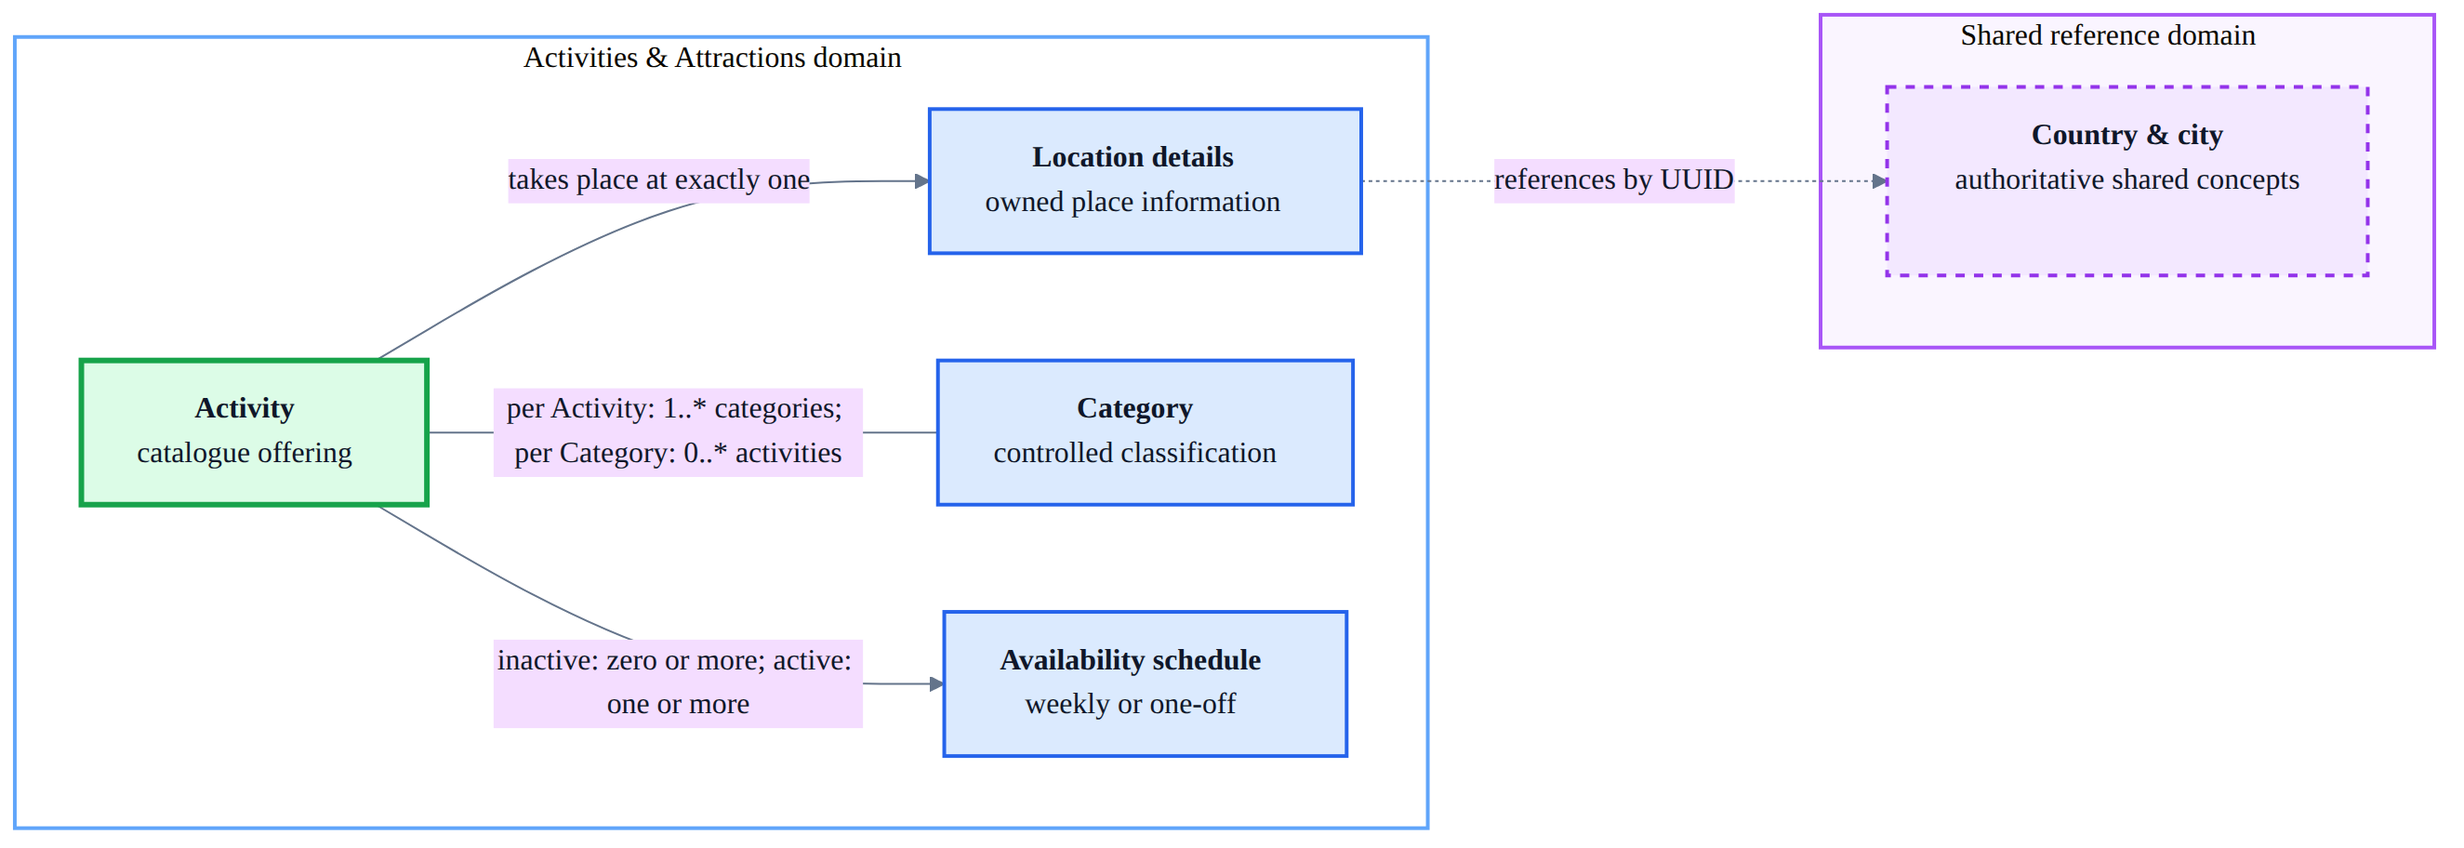
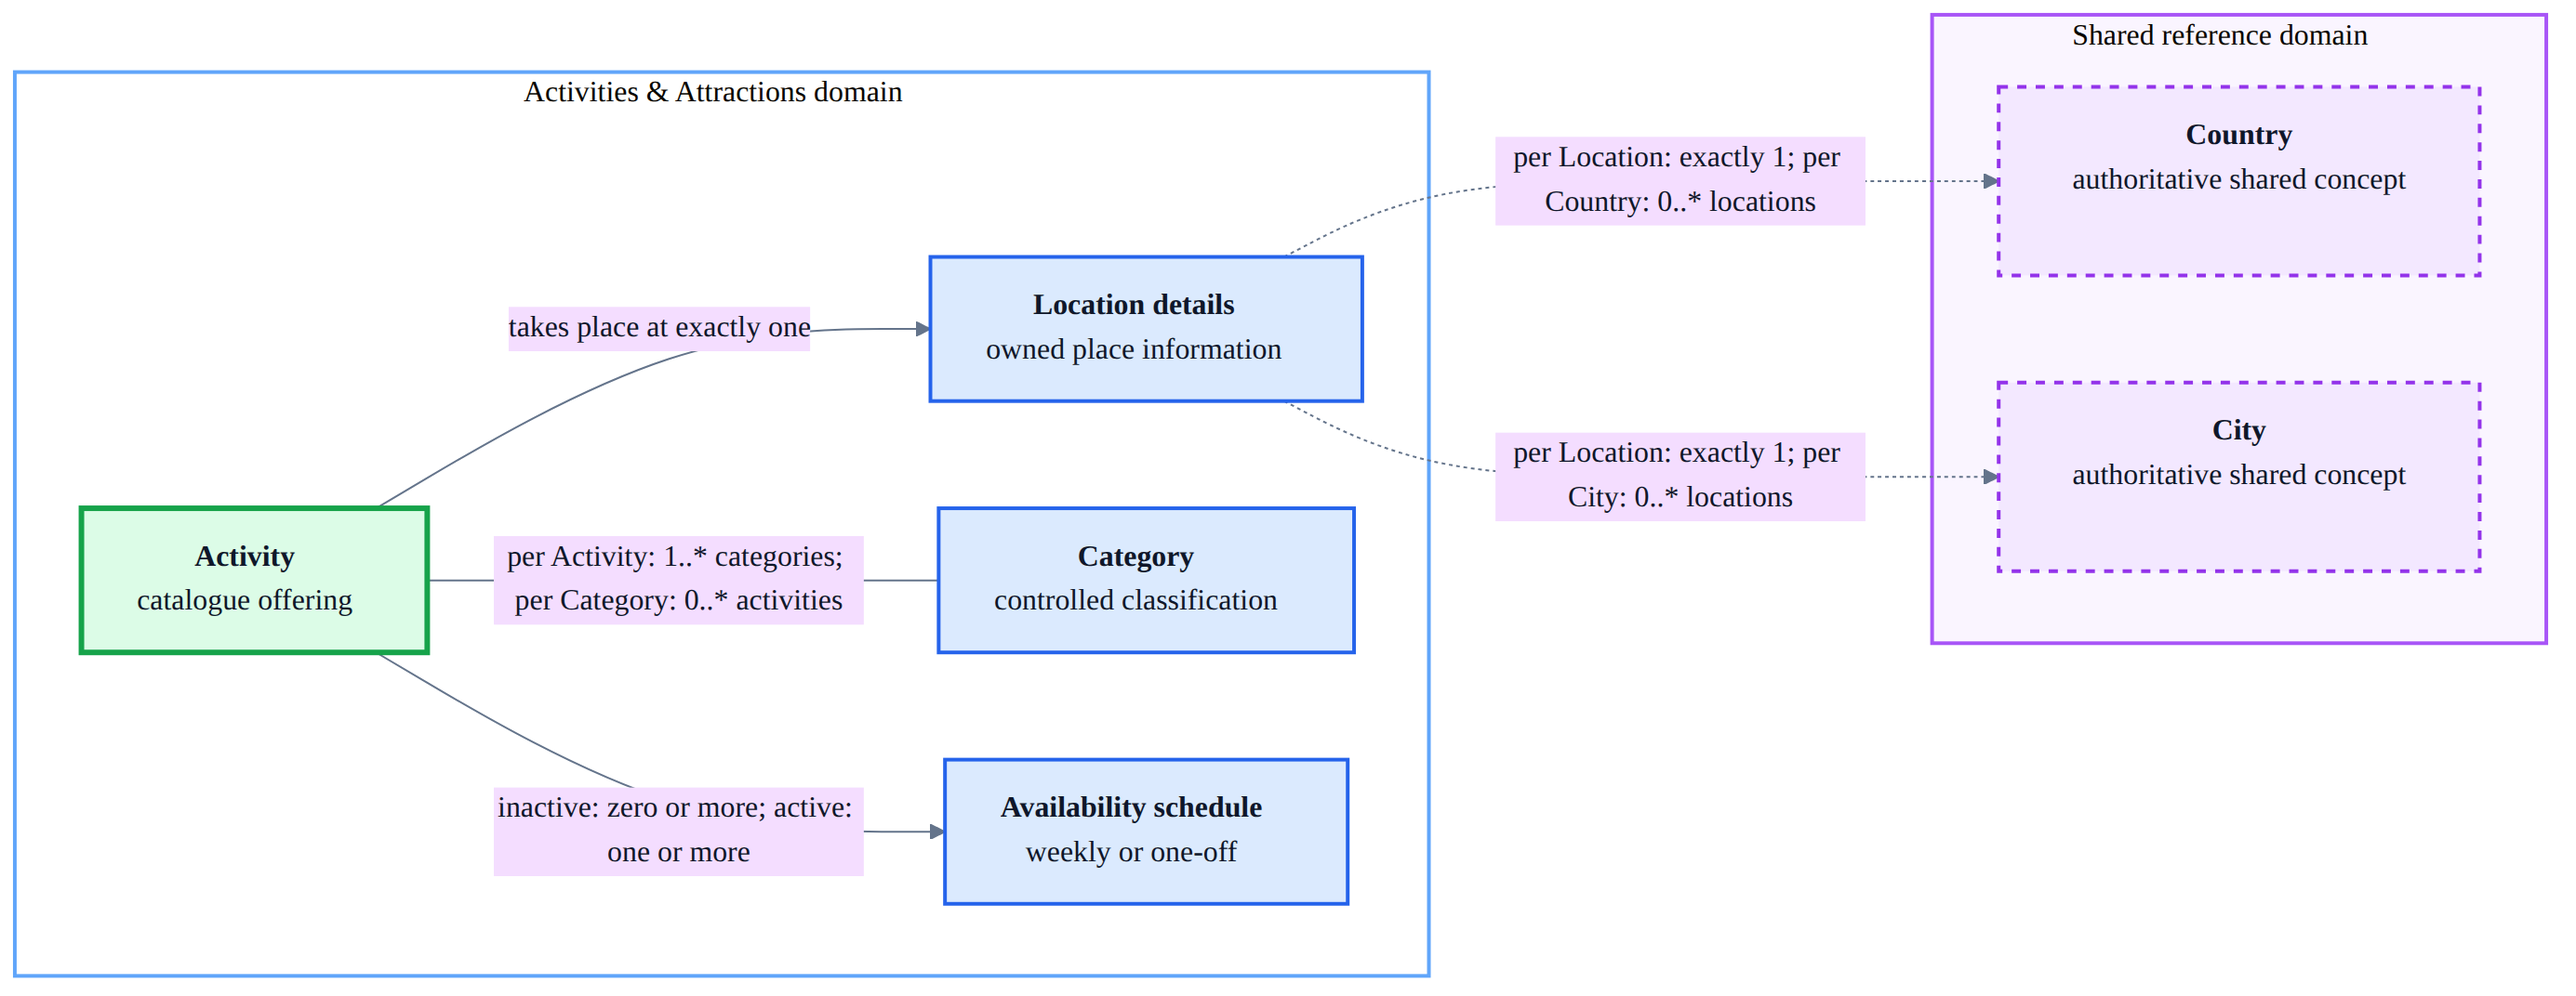
docs: finalize accurate Student 4 ERDs

diff --git a/docs/reports/release-0/Student4/DataDesign/physical.md b/docs/reports/release-0/Student4/DataDesign/physical.md
@@ -22,11 +22,11 @@ erDiagram
     ACTIVITIES ||..o{ ACTIVITY_ID_ALIASES : "service lookup only; no FK"
 
     ACTIVITIES {
-        CHAR32 id PK "CHAR(32)"
+        CHAR(32) id PK
         VARCHAR name "NOT NULL"
         VARCHAR description "NOT NULL"
         VARCHAR price "NOT NULL; canonical decimal text"
-        VARCHAR14 pricing_basis "NOT NULL; checked enum"
+        VARCHAR(14) pricing_basis "NOT NULL; checked enum"
         INTEGER duration_minutes "NOT NULL"
         INTEGER minimum_age "NULL"
         INTEGER maximum_age "NULL"
@@ -42,51 +42,58 @@ erDiagram
     }
 
     LOCATION_DETAILS {
-        CHAR32 id PK "CHAR(32)"
-        CHAR32 activity_id FK,UK "NOT NULL; ON DELETE CASCADE"
-        CHAR32 country_id "NOT NULL; external UUID"
-        CHAR32 city_id "NOT NULL; external UUID"
+        CHAR(32) id PK
+        CHAR(32) activity_id FK,UK "NOT NULL; ON DELETE CASCADE"
+        CHAR(32) country_id "NOT NULL; external UUID"
+        CHAR(32) city_id "NOT NULL; external UUID"
         VARCHAR street "NULL"
         INTEGER street_number "NULL"
     }
 
     CATEGORIES {
-        VARCHAR10 code PK "checked enum"
+        VARCHAR(10) code PK "checked enum"
         VARCHAR label "NOT NULL"
         VARCHAR description "NULL"
         INTEGER display_order "NOT NULL"
     }
 
     ACTIVITY_CATEGORIES {
-        CHAR32 activity_id PK,FK "ON DELETE CASCADE"
-        VARCHAR10 category_code PK,FK
+        CHAR(32) activity_id PK,FK "ON DELETE CASCADE"
+        VARCHAR(10) category_code PK,FK
     }
 
     ACTIVITY_AVAILABILITY_SCHEDULES {
-        CHAR32 id PK "CHAR(32)"
-        CHAR32 activity_id FK "NOT NULL; ON DELETE CASCADE"
+        CHAR(32) id PK
+        CHAR(32) activity_id FK "NOT NULL; ON DELETE CASCADE"
         BOOLEAN recurring_weekly "NOT NULL"
-        VARCHAR9 day_of_week "NULL; checked enum"
+        VARCHAR(9) day_of_week "NULL; checked enum"
         DATE date "NULL"
         TIME start_time "NOT NULL"
         TIME end_time "NOT NULL"
     }
 
     ACTIVITY_ID_ALIASES {
-        CHAR32 alias_id PK "legacy seed UUID"
-        CHAR32 activity_id "NOT NULL; indexed; no database FK"
+        CHAR(32) alias_id PK "legacy seed UUID"
+        CHAR(32) activity_id "NOT NULL; indexed; no database FK"
     }
 ```
 
 SQLite foreign keys enforce child-to-parent references and cascade deletion,
-but they cannot require a parent activity to have child rows. The API validation
-therefore requires one location, at least one category, and at least one
-schedule whenever `is_active` is true. The database still permits an inactive
-catalogue entry to have no schedules.
+but they cannot require a parent activity to have child rows. API validation
+requires one location and at least one category for every activity. It requires
+at least one schedule only when `is_active` is true; an inactive activity may
+have none.
 
 The physical indexes support country/city filtering, category-first lookup,
-schedule lookup by activity, and activity lookup from a legacy alias. Two
-partial unique indexes prevent duplicate weekly and one-off schedule rows.
+schedule lookup by activity, and activity lookup from a legacy alias. The two
+deployed partial unique indexes are:
+
+- `uq_schedule_weekly_identity (activity_id, day_of_week, start_time, end_time)
+  WHERE recurring_weekly = 1`
+- `uq_schedule_one_off_identity (activity_id, date, start_time, end_time)
+  WHERE recurring_weekly = 0`
+
+Together they prevent duplicate weekly and one-off schedule rows.
 SQLite `CHECK` constraints enforce enum values, canonical prices, valid
 booleans, ordered bounds, non-negative values, valid local date/time text, and
 the weekly-versus-one-off schedule discriminator. The service additionally

diff --git a/docs/reports/release-0/Student4/DataDesign/conceptual.md b/docs/reports/release-0/Student4/DataDesign/conceptual.md
@@ -22,25 +22,27 @@ flowchart LR
     end
 
     subgraph EXTERNAL[Shared reference domain]
-        PLACE[<b>Country & city</b><br/>authoritative shared concepts]
+        COUNTRY[<b>Country</b><br/>authoritative shared concept]
+        CITY[<b>City</b><br/>authoritative shared concept]
     end
 
     ACTIVITY -->|takes place at exactly one| LOCATION
     ACTIVITY ---|"per Activity: 1..* categories; per Category: 0..* activities"| CATEGORY
     ACTIVITY -->|"inactive: zero or more; active: one or more"| SCHEDULE
-    LOCATION -.->|references by UUID| PLACE
+    LOCATION -.->|"per Location: exactly 1; per Country: 0..* locations"| COUNTRY
+    LOCATION -.->|"per Location: exactly 1; per City: 0..* locations"| CITY
 
     classDef core fill:#dcfce7,stroke:#16a34a,color:#0f172a,stroke-width:3px;
     classDef owned fill:#dbeafe,stroke:#2563eb,color:#0f172a,stroke-width:2px;
     classDef external fill:#f3e8ff,stroke:#9333ea,color:#0f172a,stroke-width:2px,stroke-dasharray:5 5;
     class ACTIVITY core;
     class LOCATION,CATEGORY,SCHEDULE owned;
-    class PLACE external;
+    class COUNTRY,CITY external;
     style OWNED fill:#ffffff,stroke:#60a5fa,stroke-width:2px;
     style EXTERNAL fill:#faf5ff,stroke:#a855f7,stroke-width:2px;
 ```
 
 An inactive catalogue entry may have no schedule, but an active activity must
 have at least one. Country and city remain authoritative in the shared
-reference service, so the dotted connection is a UUID reference across service
-boundaries rather than a relationship between tables in one database.
+reference service, so the dotted connections cross domain ownership boundaries
+rather than representing tables owned by Student 4.
